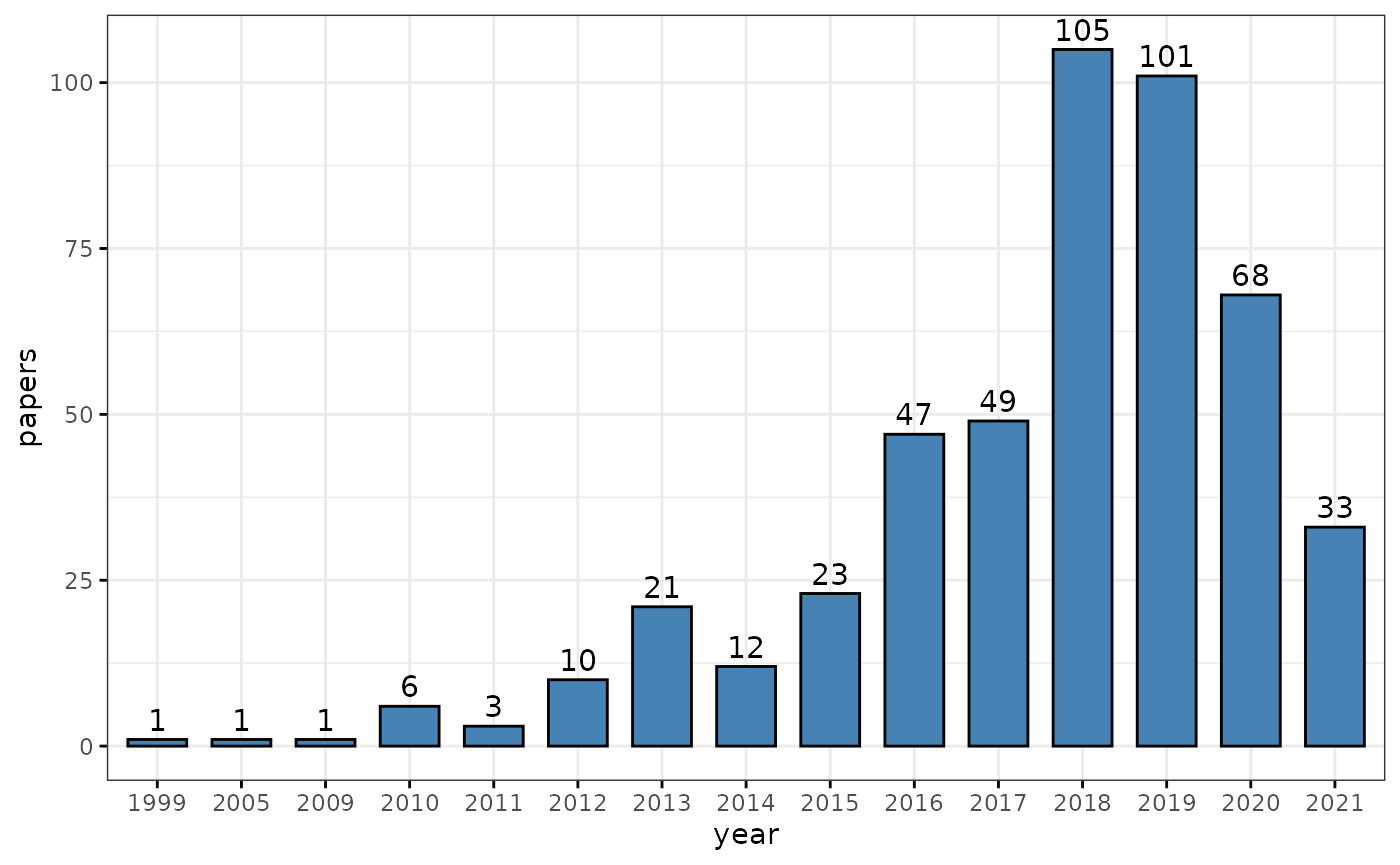
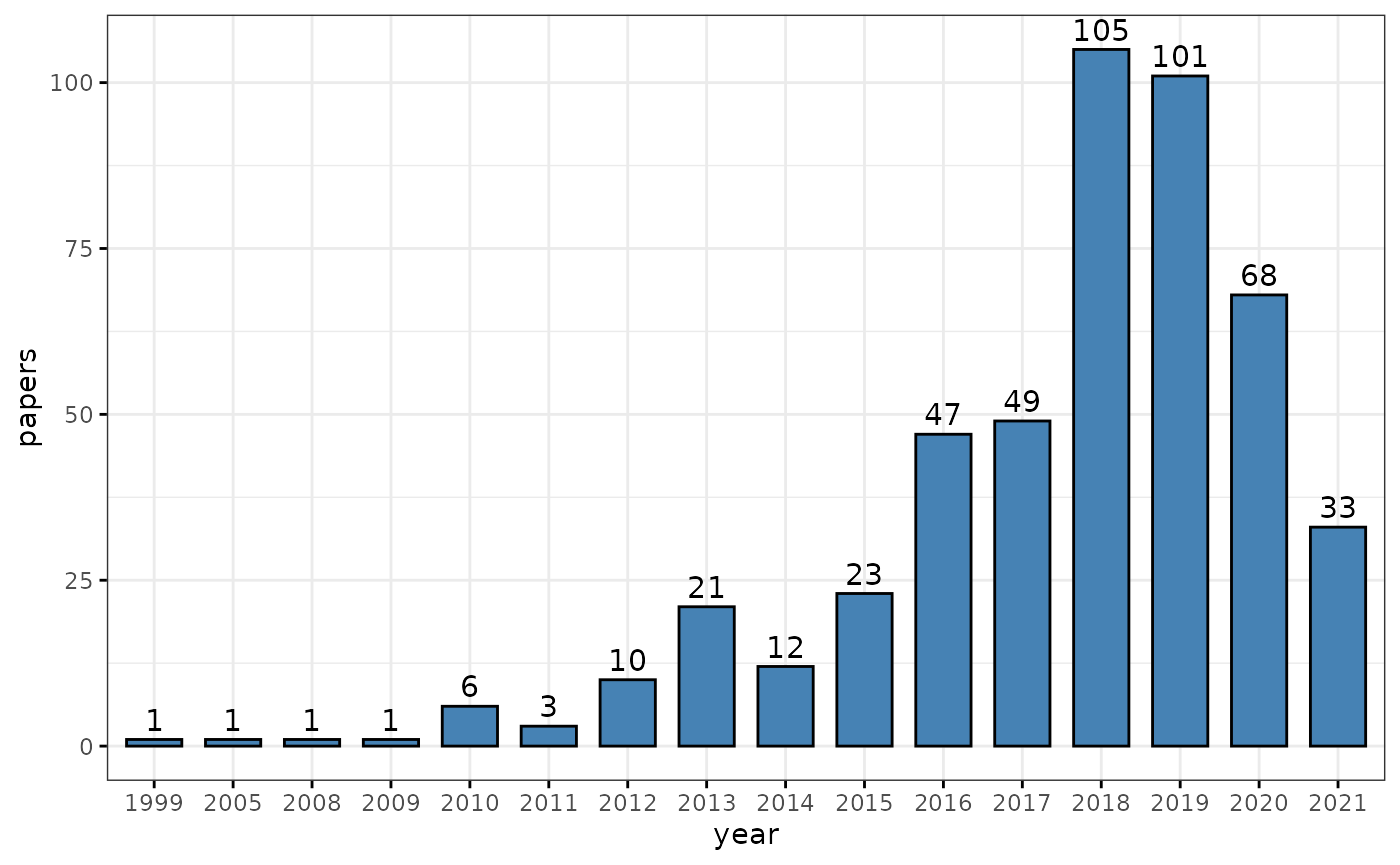
Deploying to gh-pages from  @ 9c0e06229ef63542f44c7cb56ad935cc12b6708c 🚀

diff --git a/articles/BugSigDBStats.html b/articles/BugSigDBStats.html
@@ -85,7 +85,7 @@
 <p>Get bulk export from bugsigdb.org:</p>
 <div class="sourceCode" id="cb2"><pre class="downlit">
 <span class="va">full.dat</span> <span class="op">&lt;-</span> <span class="fu">bugsigdbr</span><span class="fu">::</span><span class="fu"><a href="https://rdrr.io/pkg/bugsigdbr/man/importBugSigDB.html">importBugSigDB</a></span><span class="op">(</span><span class="op">)</span></pre></div>
-<pre><code>## using temporary cache /tmp/Rtmp15mNLj/BiocFileCache</code></pre>
+<pre><code>## using temporary cache /tmp/Rtmp9T1kzs/BiocFileCache</code></pre>
 <pre><code>## 
 ## ── Column specification ────────────────────────────────────────────────────────
 ## cols(
@@ -129,7 +129,7 @@
 ## )</code></pre>
 <div class="sourceCode" id="cb7"><pre class="downlit">
 <span class="fu"><a href="https://rdrr.io/r/base/dim.html">dim</a></span><span class="op">(</span><span class="va">full.dat</span><span class="op">)</span></pre></div>
-<pre><code>## [1] 1983   45</code></pre>
+<pre><code>## [1] 1984   45</code></pre>
 <div class="sourceCode" id="cb9"><pre class="downlit">
 <span class="fu"><a href="https://rdrr.io/r/base/colnames.html">colnames</a></span><span class="op">(</span><span class="va">full.dat</span><span class="op">)</span></pre></div>
 <pre><code>##  [1] "Study"                      "Study design"              
@@ -163,10 +163,10 @@
 <div class="sourceCode" id="cb11"><pre class="downlit">
 <span class="va">pmids</span> <span class="op">&lt;-</span> <span class="fu"><a href="https://rdrr.io/r/base/unique.html">unique</a></span><span class="op">(</span><span class="va">full.dat</span><span class="op">[</span>,<span class="st">"PMID"</span><span class="op">]</span><span class="op">)</span>
 <span class="fu"><a href="https://rdrr.io/r/base/length.html">length</a></span><span class="op">(</span><span class="va">pmids</span><span class="op">)</span></pre></div>
-<pre><code>## [1] 489</code></pre>
+<pre><code>## [1] 490</code></pre>
 <div class="sourceCode" id="cb13"><pre class="downlit">
 <span class="fu"><a href="https://rdrr.io/r/base/nrow.html">nrow</a></span><span class="op">(</span><span class="va">full.dat</span><span class="op">)</span></pre></div>
-<pre><code>## [1] 1983</code></pre>
+<pre><code>## [1] 1984</code></pre>
 <p>Publication date of the curated papers:</p>
 <div class="sourceCode" id="cb15"><pre class="downlit">
 <span class="va">pmids</span> <span class="op">&lt;-</span> <span class="va">pmids</span><span class="op">[</span><span class="op">!</span><span class="fu"><a href="https://rdrr.io/r/base/NA.html">is.na</a></span><span class="op">(</span><span class="va">pmids</span><span class="op">)</span><span class="op">]</span>
@@ -201,7 +201,7 @@
 <div class="sourceCode" id="cb20"><pre class="downlit">
 <span class="fu"><a href="https://rdrr.io/r/base/sets.html">setdiff</a></span><span class="op">(</span><span class="va">pmids</span>, <span class="fu"><a href="https://rdrr.io/r/base/unique.html">unique</a></span><span class="op">(</span><span class="va">dat</span><span class="op">[</span>,<span class="st">"PMID"</span><span class="op">]</span><span class="op">)</span><span class="op">)</span></pre></div>
 <pre><code>##  [1] 32295867 32937864 32415070 32728349 33903709 33851179 33833065 31910227
-##  [9] 33603076 31917273 22986438 23565884 32839514</code></pre>
+##  [9] 33603076 31917273 22986438 23565884 32839514 18628503</code></pre>
 <p>Progress over time:</p>
 <div class="sourceCode" id="cb22"><pre class="downlit">
 <span class="va">dat</span><span class="op">[</span>,<span class="st">"Curated date"</span><span class="op">]</span> <span class="op">&lt;-</span> <span class="fu"><a href="https://rdrr.io/r/base/character.html">as.character</a></span><span class="op">(</span><span class="fu">lubridate</span><span class="fu">::</span><span class="fu"><a href="http://lubridate.tidyverse.org/reference/ymd.html">dmy</a></span><span class="op">(</span><span class="va">dat</span><span class="op">[</span>,<span class="st">"Curated date"</span><span class="op">]</span><span class="op">)</span><span class="op">)</span>
